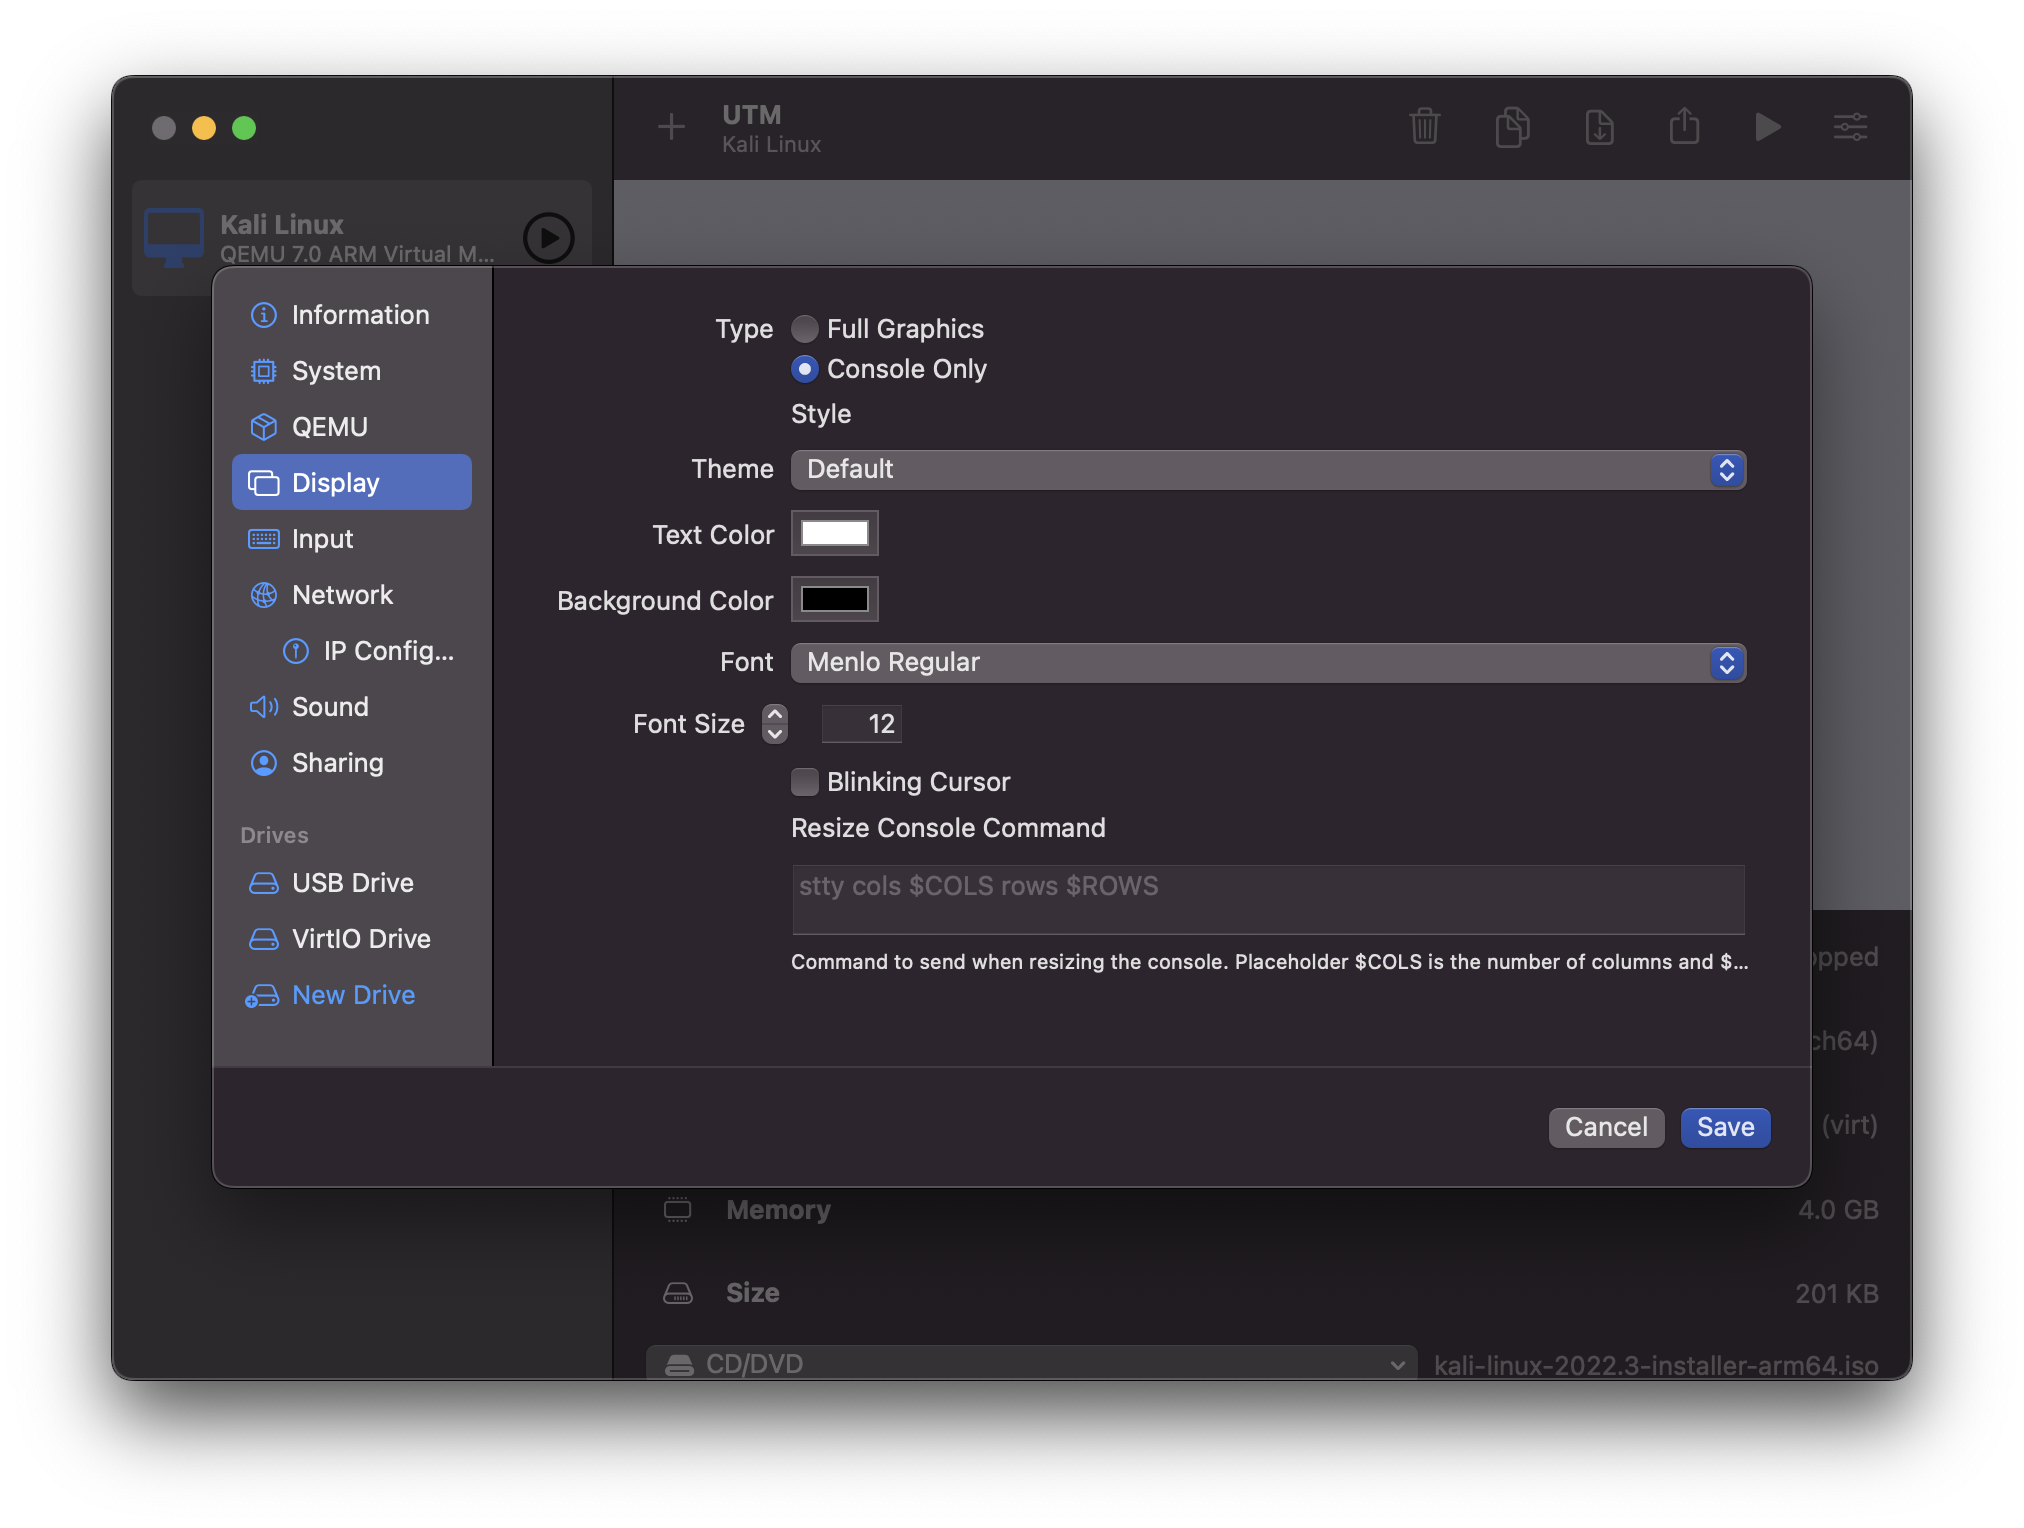
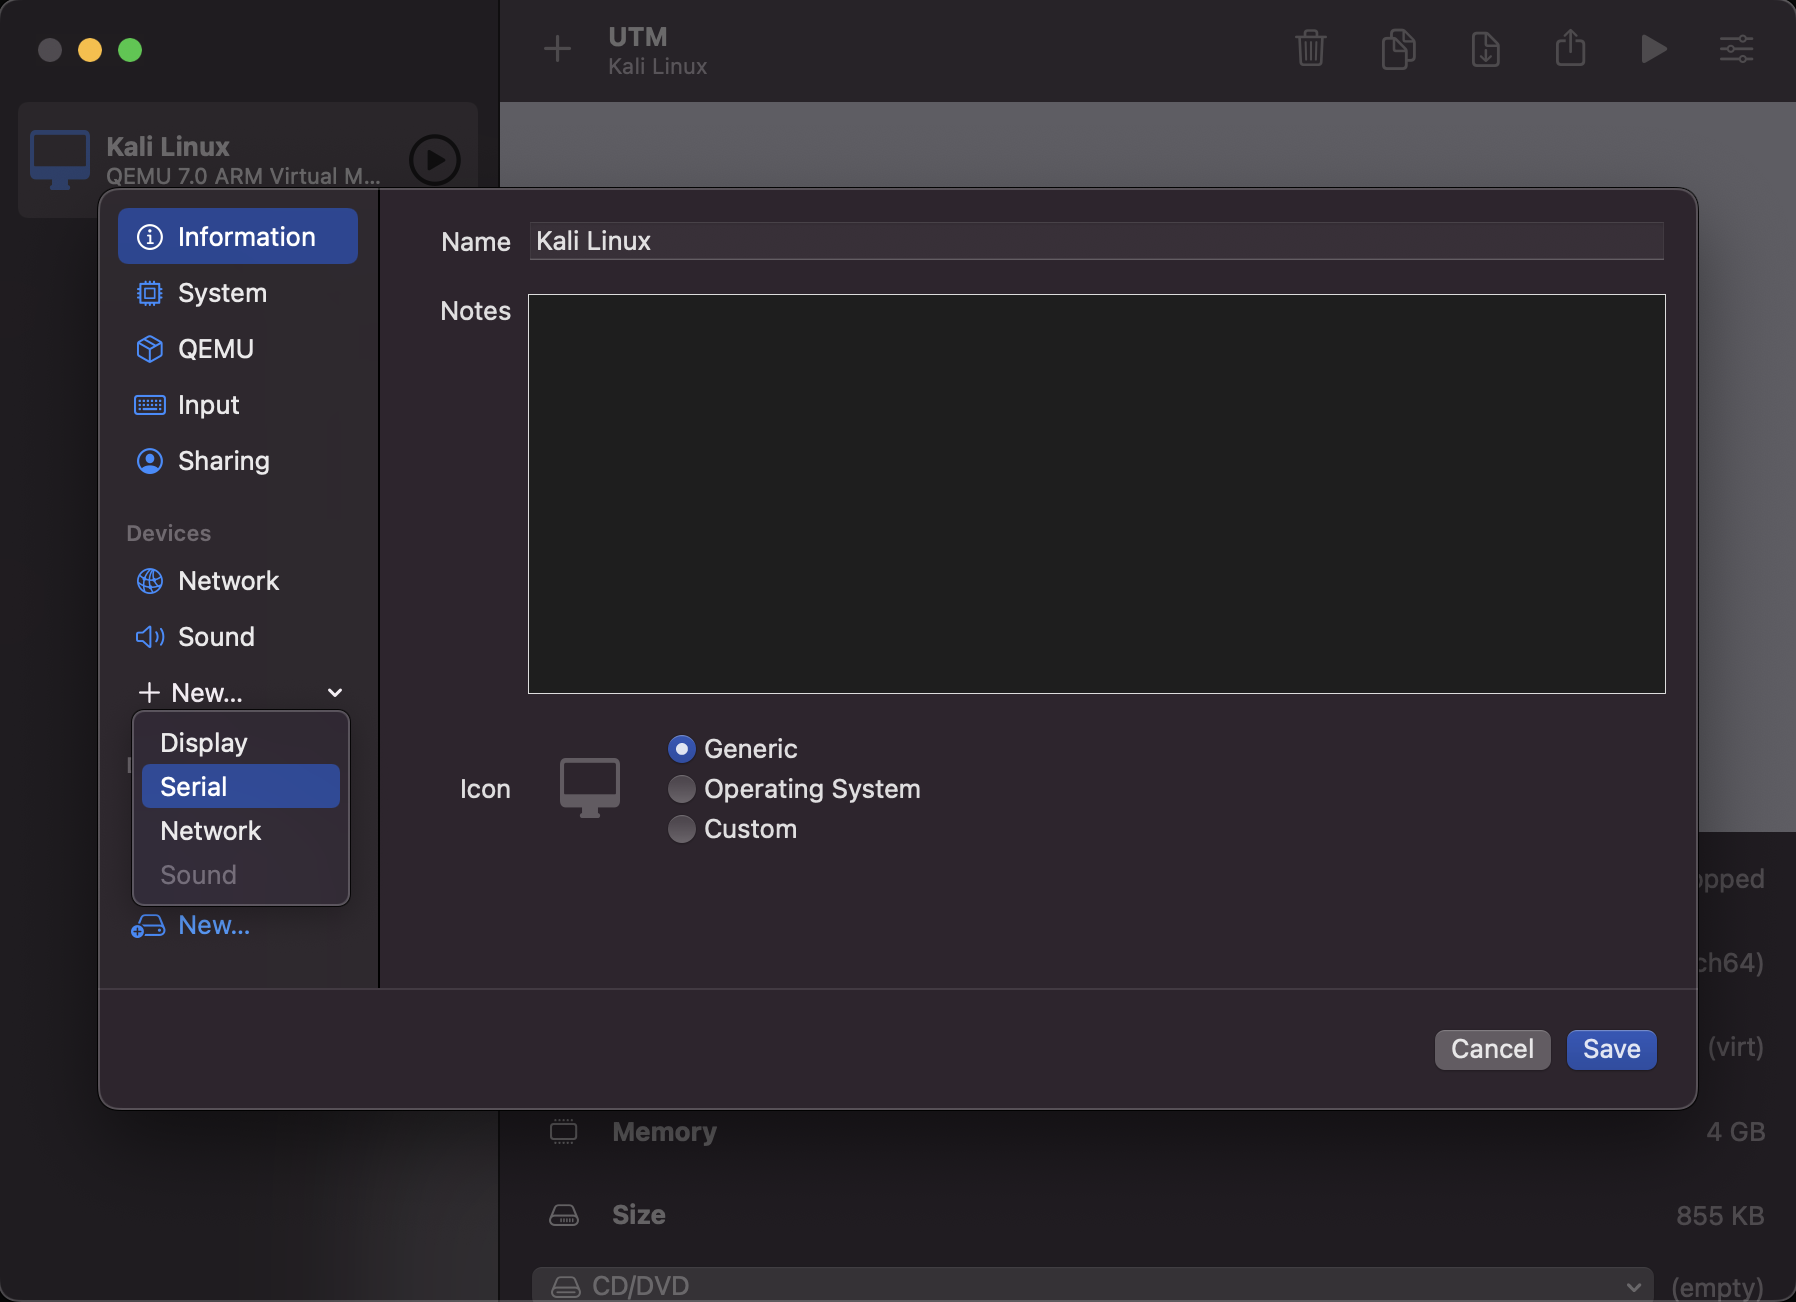
Update UTM docs page

diff --git a/virtualization/install-utm-guest-vm/index.md b/virtualization/install-utm-guest-vm/index.md
@@ -42,15 +42,16 @@ Now we are at the summary and we can re-name our VM to be "Kali Linux". Once com
 
 ![](utm-setup-9.png)
 
-From here we can navigate to "Display" and set it to "Console only":
+From here we can add the device "Serial" under "Devices":
 
 ![](utm-setup-10.png)
+![](utm-setup-10.5.png)
 
 Now we can save and press play on the VM. Once prompted, we select "Install":
 
 ![](utm-setup-11.png)
 
-Once the install is finished we can go back to the settings and re-enable "Full Graphics":
+Once the install is finished we can go back to the settings and remove the "Serial" device by right-clicking and selecting "Remove":
 
 ![](utm-setup-12.png)
 
